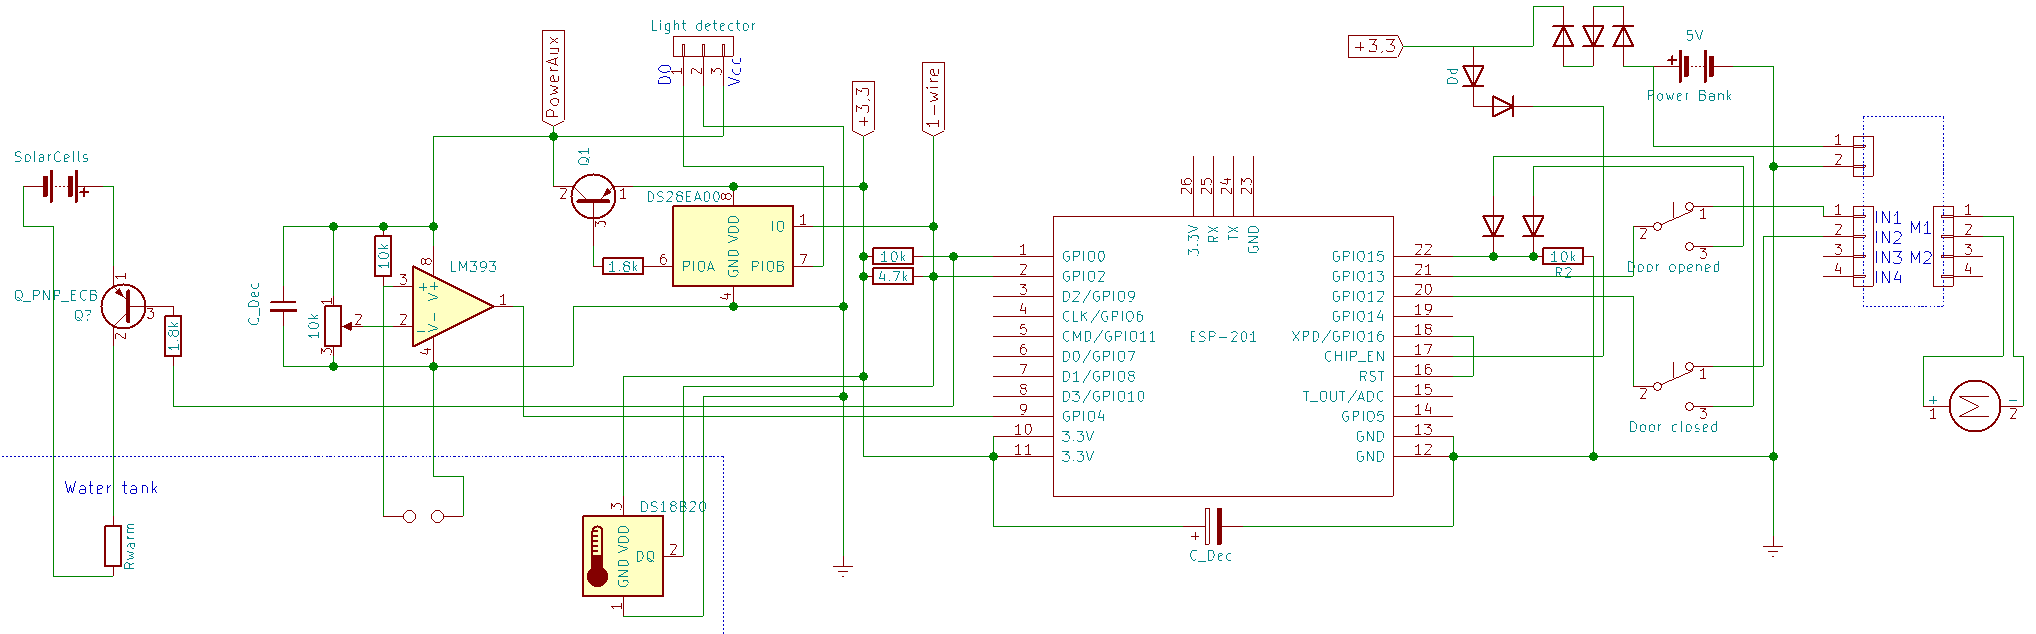
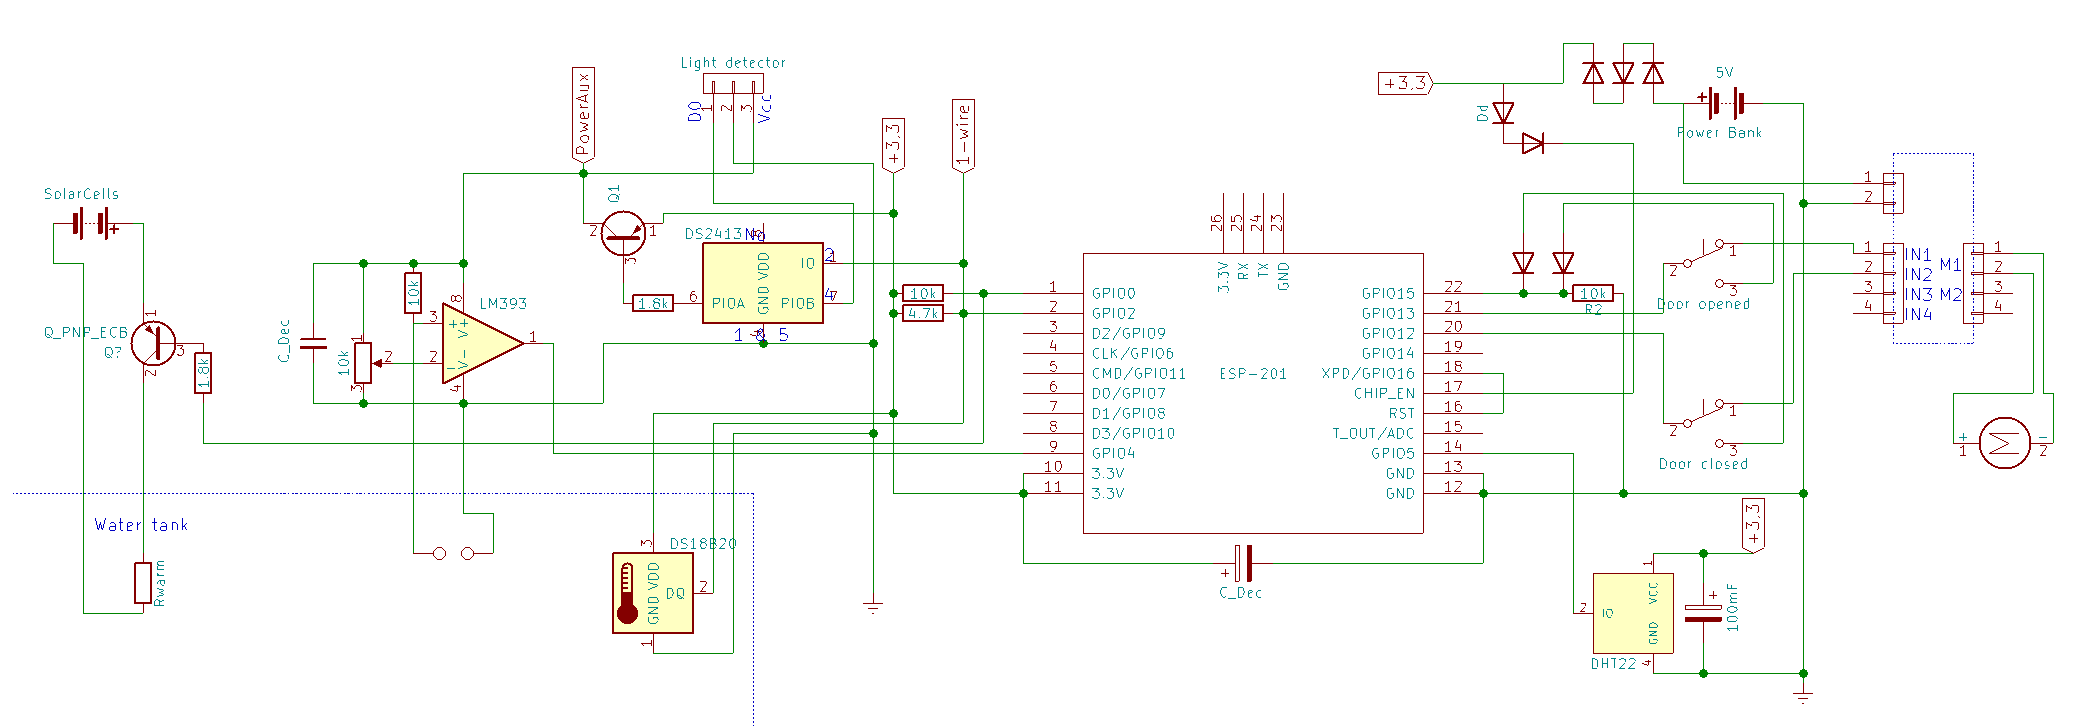
Replace DS28EA00 by DHT22

diff --git a/README.md b/README.md
@@ -17,11 +17,12 @@ Automatisation de mon poulailler.
 * **GPIO0** : enable water warming (*low*)
 * **GPIO2** : 1-wire
 * **GPIO4** : water low (*low*)
+* **GPIO5** : DHT22
 * **GPIO15** : Door in stop position (*high* depend on GPIO12/13)
 * **GPIO013** : Door up (*high*)
 * **GPIO012** : Door Down (*high*)
 
-## DS28EA00 PIOs
+## DS2413 PIOs
 
 * **PIO.A** : Auxiliary power enable (*low*)
 * **PIO.B** : sun light (*low*)
